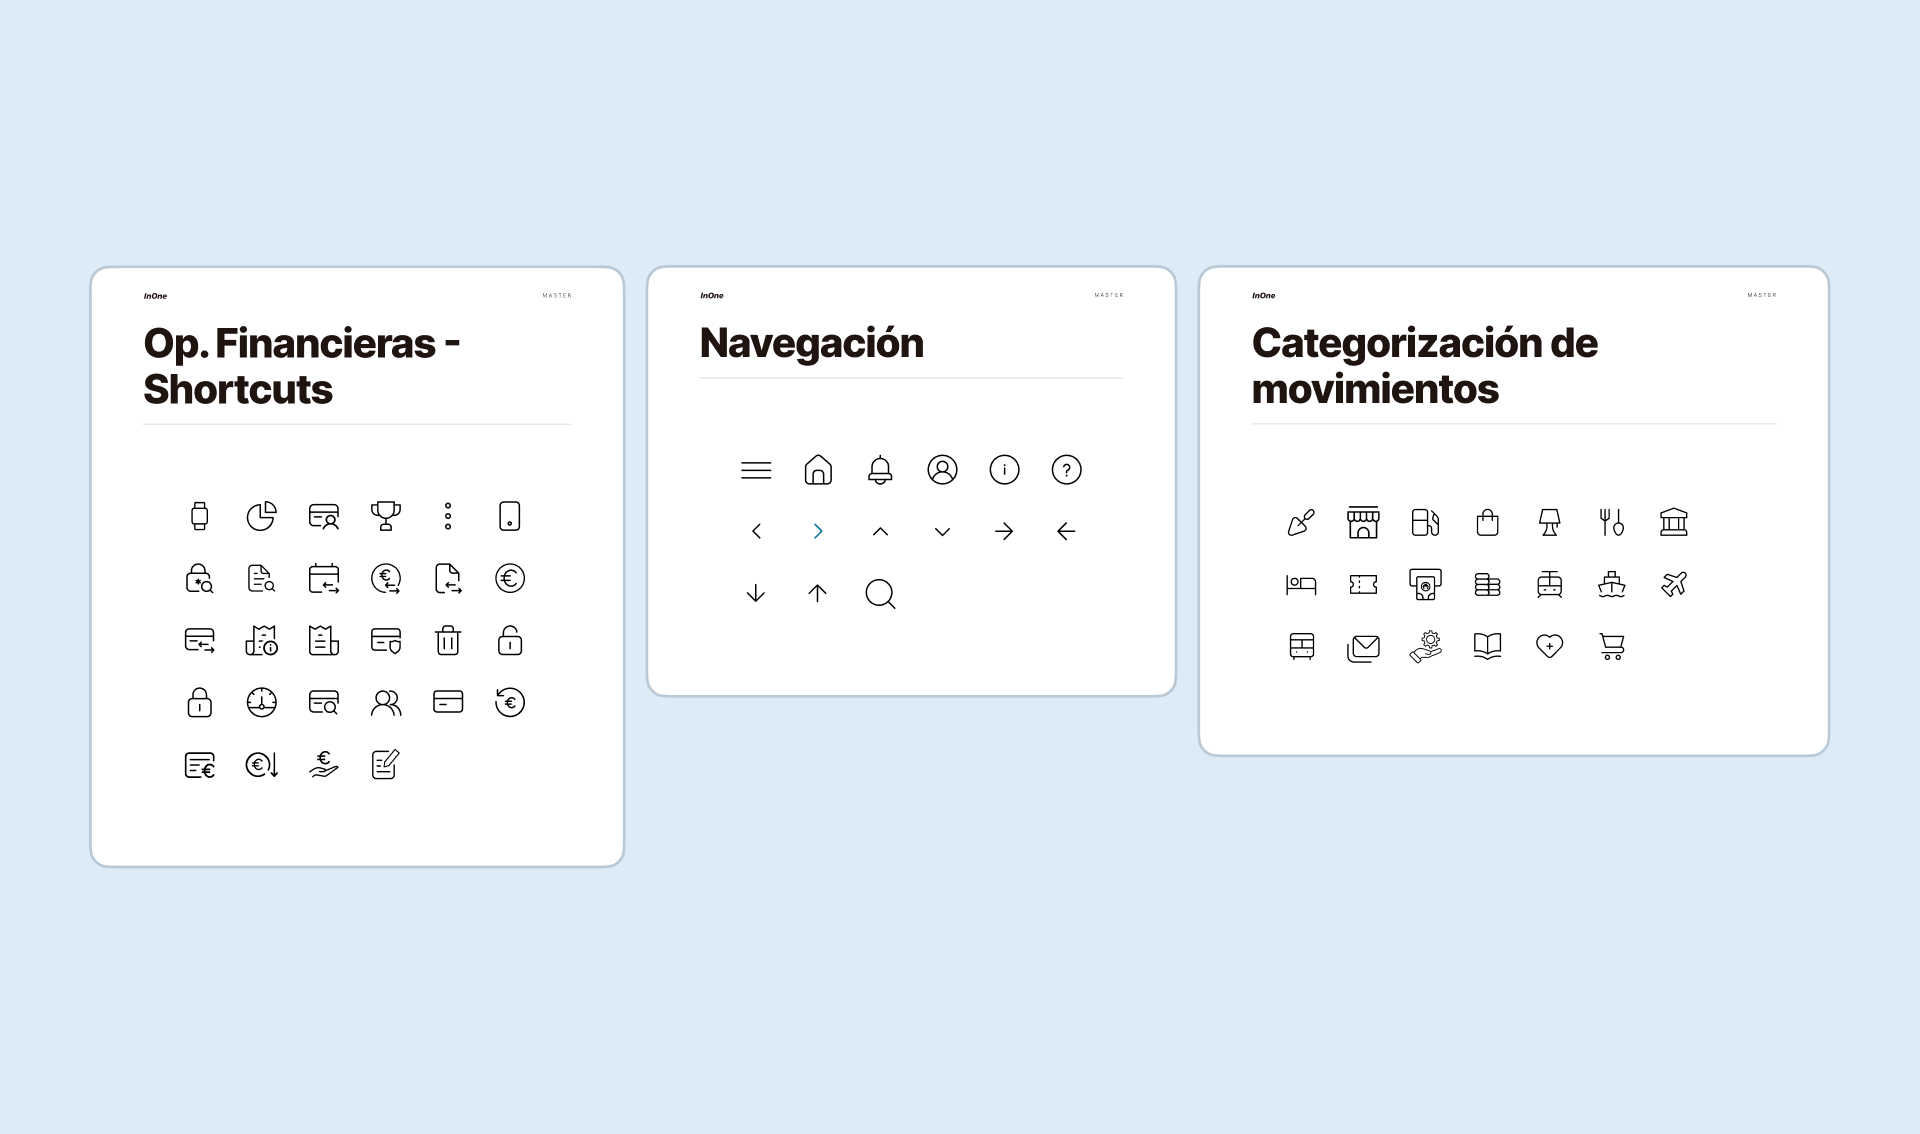
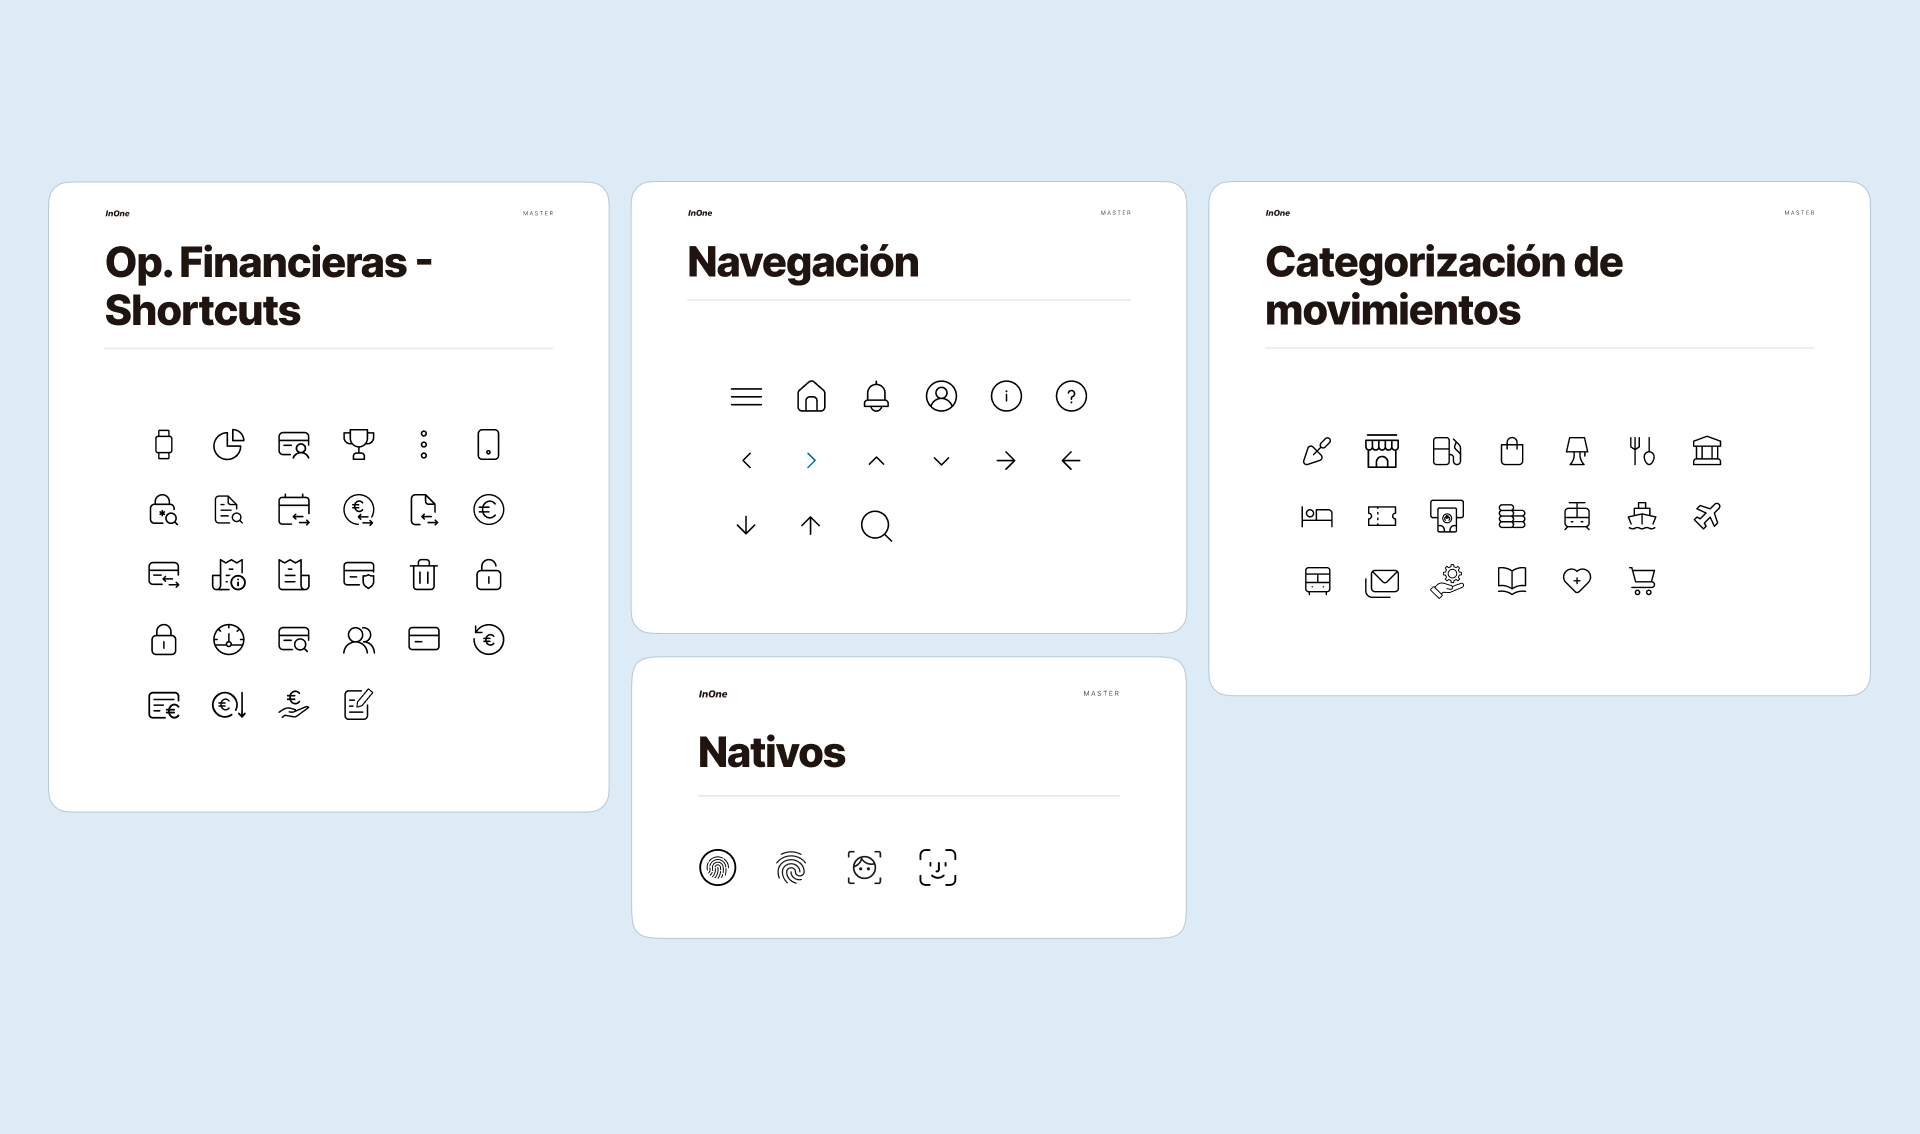
Finance: InOne - imagenes del slider (3 y 4) y full width actualizadas

Changed region(s): [[0.0, 0.1543, 1.0, 0.8333], [0.375, 0.4012, 0.5625, 0.4321], [0.875, 0.3704, 0.9062, 0.4012]]

diff --git a/finance_en.html b/finance_en.html
@@ -286,7 +286,7 @@
 
 
 												<figure class="has-animation has-cover" data-delay="2">
-														<a href="images/inone/inone_img_content_1.jpg?v=2" class="image-link"><img src="images/inone/inone_img_content_1.jpg?v=2" alt="InOne CaixaBank app - Products screen held in hand"></a>
+														<a href="images/inone/inone_img_content_1.jpg?v=3" class="image-link"><img src="images/inone/inone_img_content_1.jpg?v=3" alt="InOne CaixaBank app - Products screen held in hand"></a>
 												</figure>
 
 										</div>
@@ -334,8 +334,8 @@
 														<div class="planner-slider-slides">
 																<figure class="planner-slide is-active"><img src="images/inone/inone_img_1.jpg" alt="InOne CaixaBank app - Home screen"></figure>
 																<figure class="planner-slide"><img src="images/inone/inone_img_2.jpg" alt="InOne CaixaBank app - Loan, PIN, feedback and cards screens"></figure>
-																<figure class="planner-slide"><img src="images/inone/inone_img_3.jpg" alt="InOne CaixaBank app - Cards and home screens in context"></figure>
-																<figure class="planner-slide"><img src="images/inone/inone_img_4.jpg" alt="InOne CaixaBank app - Icon library"></figure>
+																<figure class="planner-slide"><img src="images/inone/inone_img_3.jpg?v=2" alt="InOne CaixaBank app - Cards and home screens in context"></figure>
+																<figure class="planner-slide"><img src="images/inone/inone_img_4.jpg?v=2" alt="InOne CaixaBank app - Icon library"></figure>
 																<div class="planner-slider-dots hide-ball"></div>
 														</div>
 												</div>
